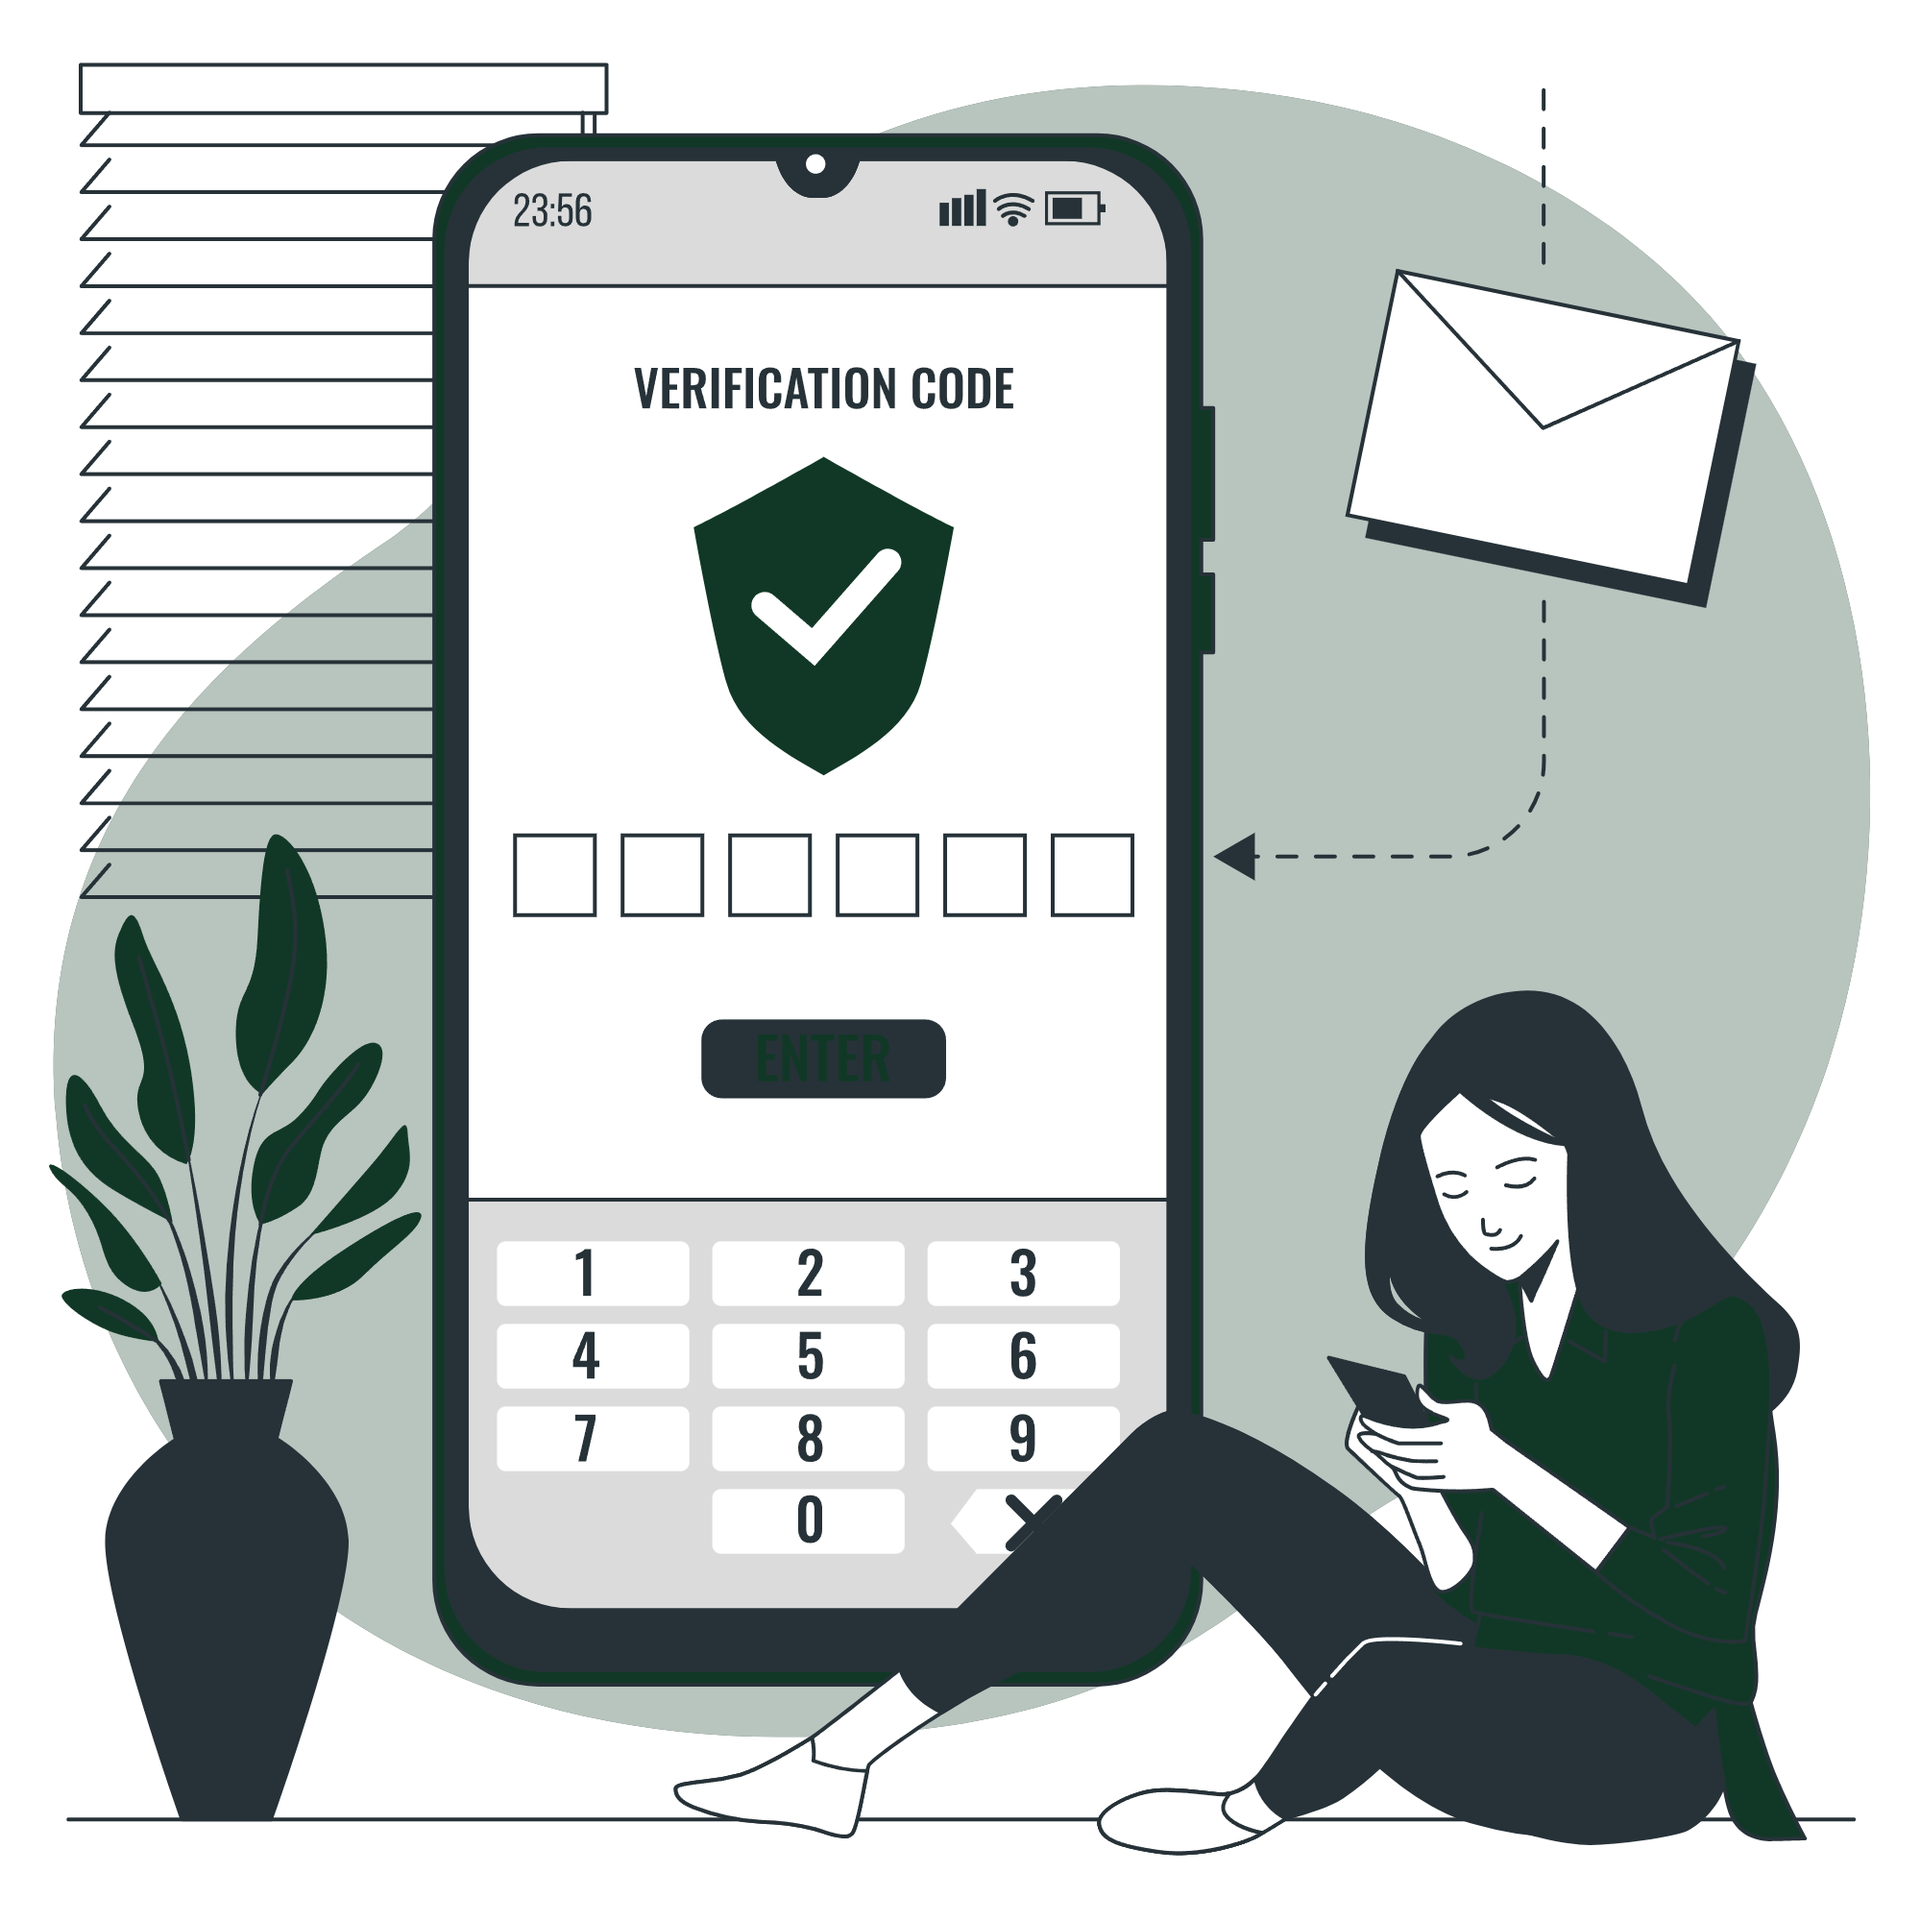
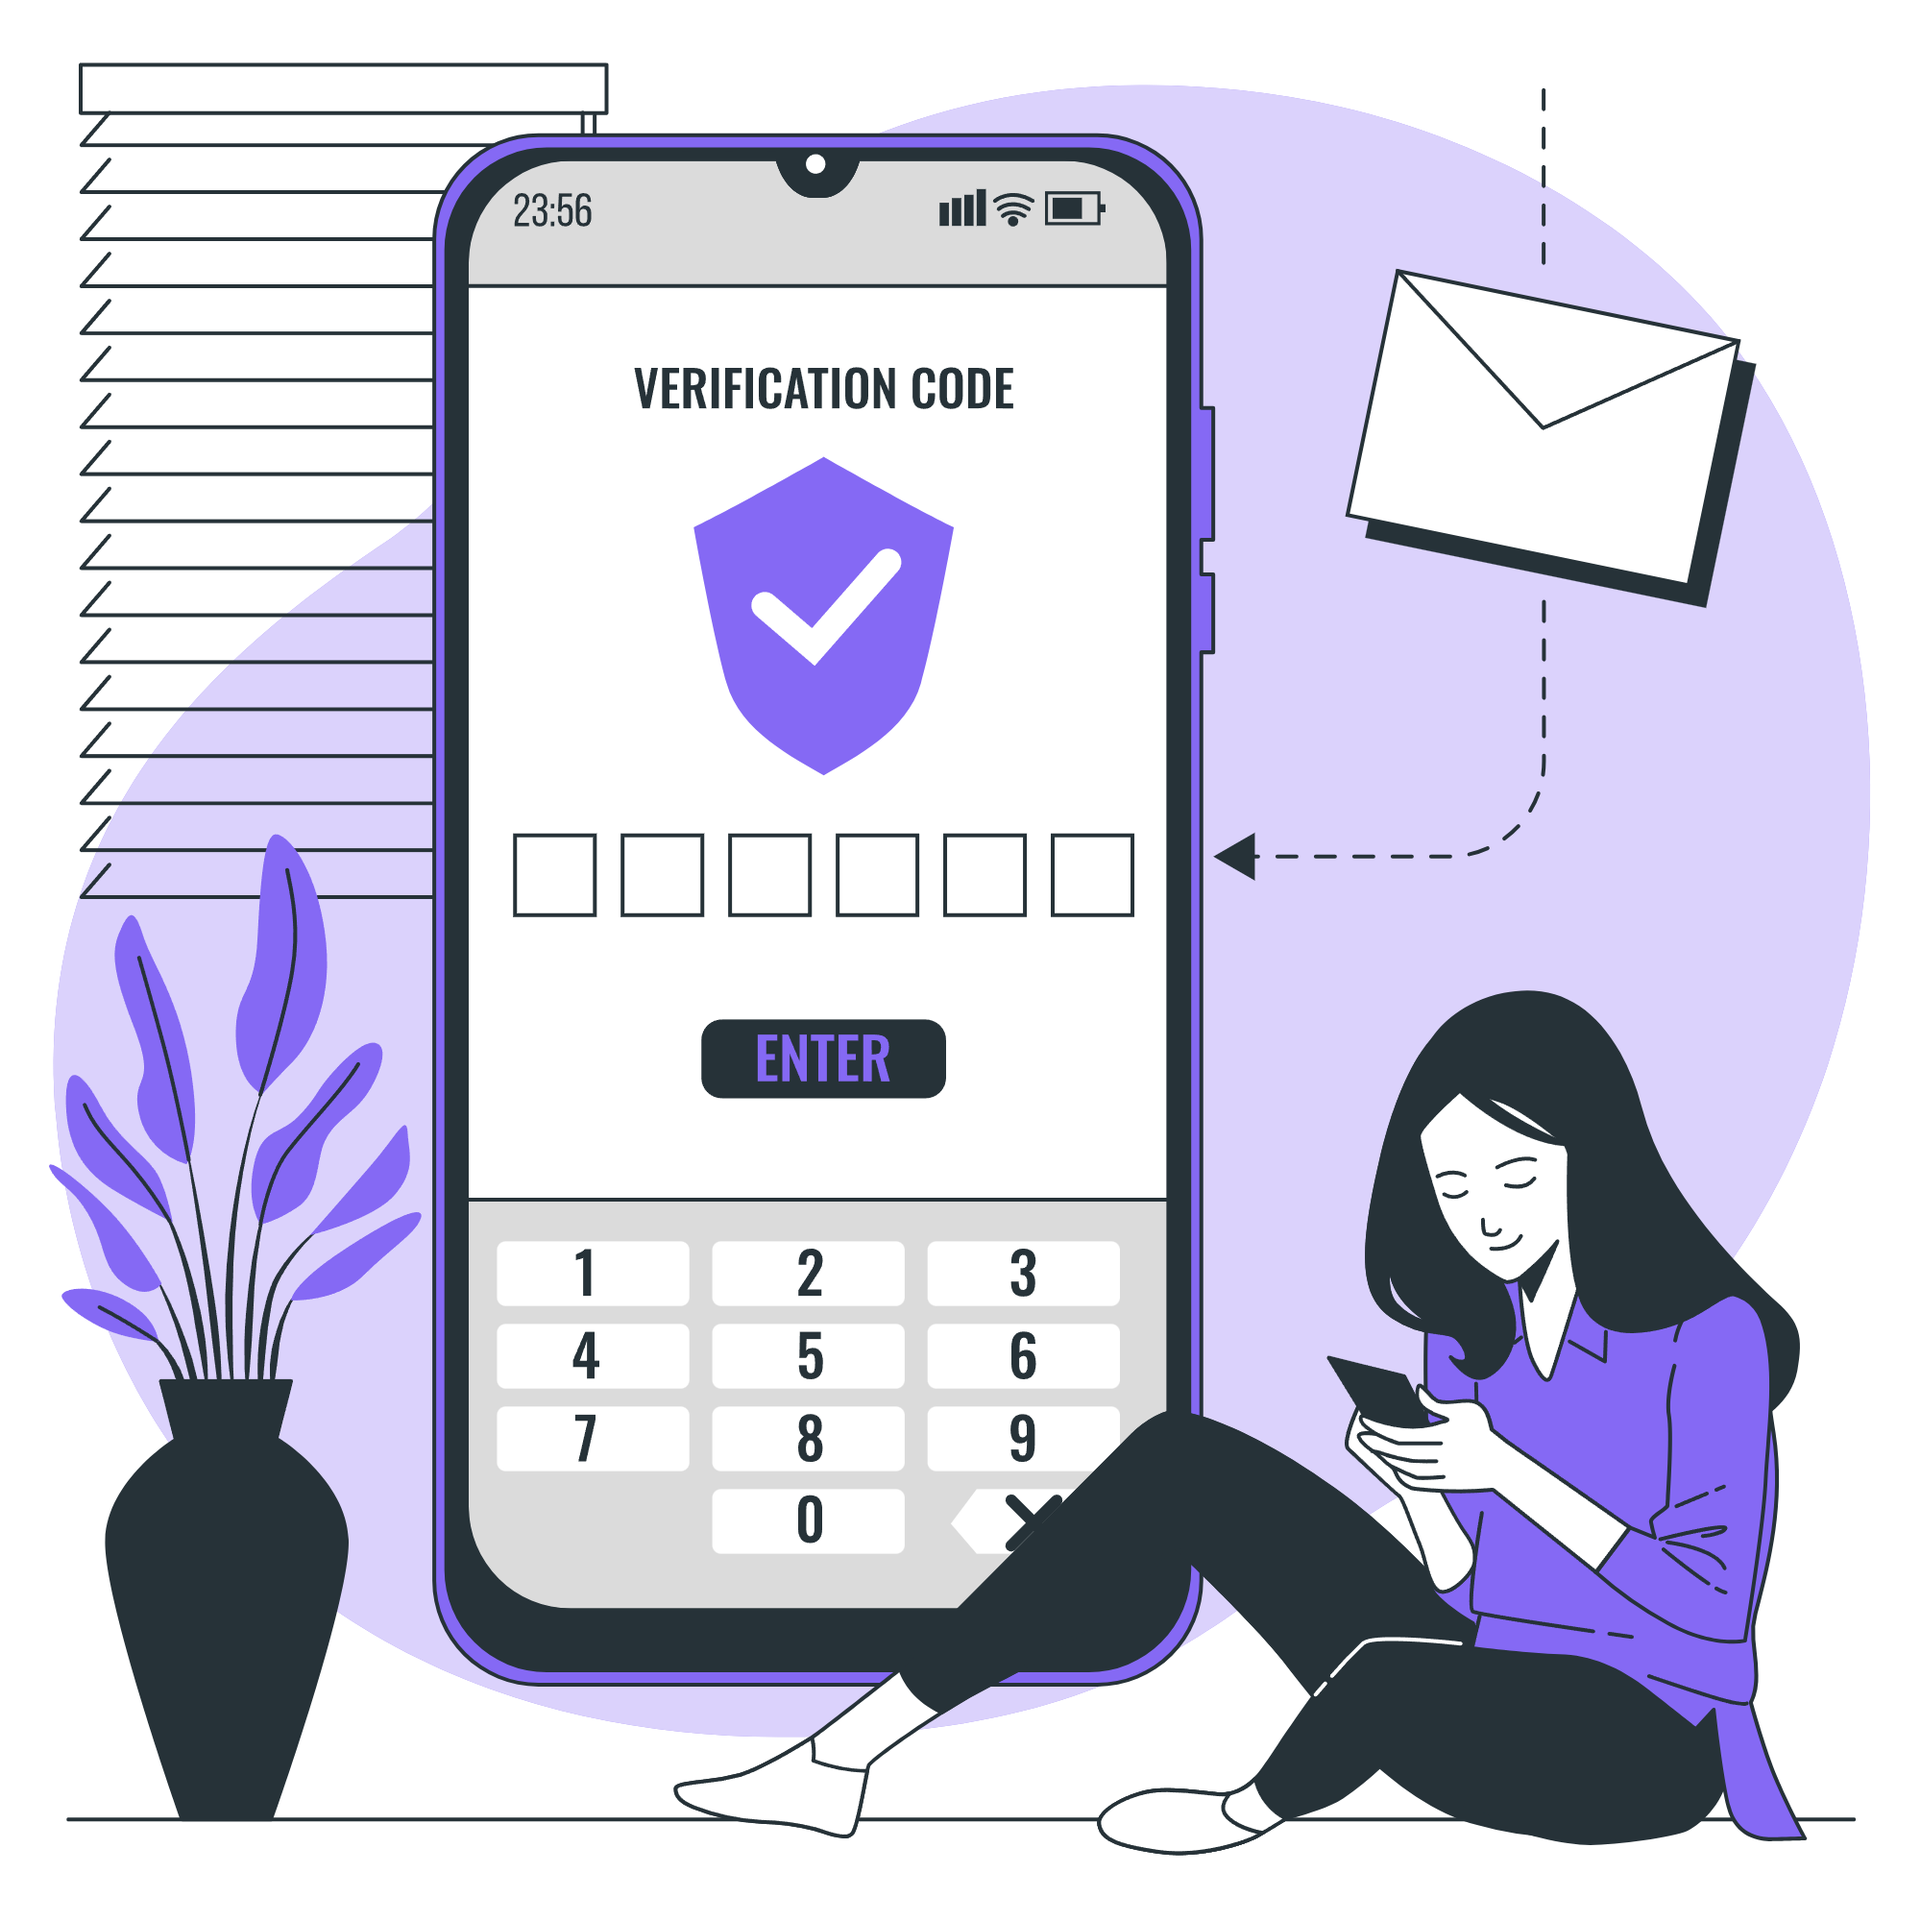
done adding teacher list

diff --git a/NVM-MS/src/screens/principal/TeachersList.js b/NVM-MS/src/screens/principal/TeachersList.js
@@ -1,12 +1,229 @@
-import { View, Text } from 'react-native'
-import React from 'react'
+import { View, Text, SafeAreaView, StyleSheet, FlatList } from 'react-native'
+import React, { useState } from 'react'
+import CustomSearchBar from '../../customComponents/CustomSearchBar'
+import { COLORS, customStyle } from '../../custom/styles';
+import { createMaterialTopTabNavigator } from "@react-navigation/material-top-tabs";
+import CustomTextAndInput from '../../customComponents/CustomTextAndInput';
+const Tab = createMaterialTopTabNavigator();
 
-const TeachersList = () => {
+const TeachersList = ({ navigation }) => {
+  const [searchActive, setSearchActive] = useState(false);
+  const [searchText, setSearchText] = useState(false);
+  const [teachersList, setTeachersList] = useState([
+    {
+      "id": 1,
+      "fullName": "Rajiv Mali",
+      "class": "12",
+      "division": "C",
+      "faculty": "Arts",
+      "phoneNumber": "9876543210"
+    },
+    {
+      "id": 2,
+      "fullName": "Amit Sharma",
+      "class": "12",
+      "division": "A",
+      "faculty": "Science",
+      "phoneNumber": "9123456789"
+    },
+    {
+      "id": 3,
+      "fullName": "Neha Patel",
+      "class": "12",
+      "division": "B",
+      "faculty": "Commerce",
+      "phoneNumber": "9988776655"
+    },
+    {
+      "id": 4,
+      "fullName": "Ravi Kumar",
+      "class": "12",
+      "division": "C",
+      "faculty": "Arts",
+      "phoneNumber": "9456123456"
+    },
+    {
+      "id": 5,
+      "fullName": "Simran Verma",
+      "class": "12",
+      "division": "A",
+      "faculty": "Commerce",
+      "phoneNumber": "9234567890"
+    },
+    {
+      "id": 6,
+      "fullName": "Pooja Yadav",
+      "class": "12",
+      "division": "B",
+      "faculty": "Science",
+      "phoneNumber": "9345678901"
+    },
+    {
+      "id": 7,
+      "fullName": "Manish Mehta",
+      "class": "12",
+      "division": "C",
+      "faculty": "Arts",
+      "phoneNumber": "9456781234"
+    },
+    {
+      "id": 8,
+      "fullName": "Priya Singh",
+      "class": "12",
+      "division": "A",
+      "faculty": "Arts",
+      "phoneNumber": "8765432109"
+    },
+    {
+      "id": 9,
+      "fullName": "Shivam Gupta",
+      "class": "12",
+      "division": "B",
+      "faculty": "Commerce",
+      "phoneNumber": "9876123456"
+    },
+    {
+      "id": 10,
+      "fullName": "Anjali Reddy",
+      "class": "12",
+      "division": "C",
+      "faculty": "Science",
+      "phoneNumber": "9123987456"
+    },
+    {
+      "id": 11,
+      "fullName": "Karan Joshi",
+      "class": "12",
+      "division": "A",
+      "faculty": "Arts",
+      "phoneNumber": "9786123456"
+    },
+    {
+      "id": 12,
+      "fullName": "Sneha Sharma",
+      "class": "12",
+      "division": "B",
+      "faculty": "Science",
+      "phoneNumber": "9823476501"
+    },
+    {
+      "id": 13,
+      "fullName": "Vishal Chauhan",
+      "class": "12",
+      "division": "C",
+      "faculty": "Commerce",
+      "phoneNumber": "9456789234"
+    },
+    {
+      "id": 14,
+      "fullName": "Sahil Kapoor",
+      "class": "12",
+      "division": "A",
+      "faculty": "Science",
+      "phoneNumber": "9998765432"
+    },
+    {
+      "id": 15,
+      "fullName": "Maya Desai",
+      "class": "12",
+      "division": "B",
+      "faculty": "Commerce",
+      "phoneNumber": "9212345678"
+    }
+  ]
+  )
+
+  const handlesubmit = () => {
+
+  };
+  const handleApplyFilter = () => {
+
+  };
+
+  const renderItems = ({ item }) => {
+    return (
+      <View>
+        <CustomTextAndInput type="text"> {item.fullName}</CustomTextAndInput>
+
+      </View>
+    );
+  }
+
+
   return (
-    <View>
-      <Text>TeachersList</Text>
-    </View>
+    <SafeAreaView style={customStyle.container}>
+      <CustomSearchBar
+        searchActive={searchActive}
+        handlesubmit={handlesubmit}
+        handleApplyFilter={handleApplyFilter}
+        setSearchText={setSearchText}
+        searchText={searchText}
+        setSearchActive={setSearchActive}
+        navigation={navigation}
+        labelText="Teachers"
+        placeholderText="search teachers"
+      />
+
+      <Tab.Navigator
+        screenOptions={({ route }) => ({
+          tabBarInactiveTintColor: "#aaa",
+          tabBarIndicatorStyle: { backgroundColor: "transparent" },
+          tabBarLabelStyle: { fontSize: 10, fontWeight: "bold" },
+          tabBarStyle: { backgroundColor: "#fafbfd" },
+          tabBarLabel: ({ focused, color }) => (
+            <View
+              style={{
+                backgroundColor: focused ? COLORS.primary : "#ffffff",
+                padding: 10,
+                borderRadius: 10,
+                paddingHorizontal: 20,
+                flex: 1
+              }}>
+              <CustomTextAndInput type="text" style={[styles.label, { color: focused ? "#ffffff" : "#292929" }]}>{route.name}</CustomTextAndInput>
+            </View>
+          ),
+        })}
+        sceneContainerStyle={{
+          backgroundColor: "red",
+          paddingTop: 100,
+        }}>
+        <Tab.Screen name="Science">
+          {() => (
+            <View>
+              <CustomTextAndInput type="text"> Science</CustomTextAndInput>
+              <FlatList
+              data={teachersList}
+              renderItem={renderItems}
+              />
+            </View>
+
+          )}
+        </Tab.Screen>
+        <Tab.Screen name="Commerce">
+          {() => (
+            <View>
+              <CustomTextAndInput type="text"> Commerce</CustomTextAndInput>
+              <FlatList
+              data={teachersList}
+              renderItem={renderItems}
+              />
+            </View>)}
+        </Tab.Screen>
+        <Tab.Screen name="Arts">
+          {() => (
+            <View>
+              <CustomTextAndInput type="text"> arts</CustomTextAndInput>
+              <FlatList
+              data={teachersList}
+              renderItem={renderItems}
+              />
+            </View>)}
+        </Tab.Screen>
+      </Tab.Navigator>
+    </SafeAreaView>
   )
 }
+const styles = StyleSheet.create({
 
-export default TeachersList
+});
+export default TeachersList;

diff --git a/NVM-MS/src/customComponents/CustomSearchBar.js b/NVM-MS/src/customComponents/CustomSearchBar.js
@@ -1,0 +1,81 @@
+import React from 'react'
+import { StyleSheet, TouchableOpacity, View } from 'react-native';
+import { Entypo, EvilIcons, SimpleLineIcons } from '@expo/vector-icons';
+import CustomTextAndInput from "./CustomTextAndInput"
+
+const CustomSearchBar = ({
+  searchActive,
+  handlesubmit,
+  handleApplyFilter,
+  setSearchText,
+  searchText,
+  setSearchActive,
+  navigation,
+  labelText,
+  placeholderText
+}) => {
+  return (
+    <View style={styles.topBar}>
+      <TouchableOpacity onPress={() => navigation.goBack()}>
+        <Entypo name="chevron-thin-left" size={24} color="#ffffff" />
+      </TouchableOpacity>
+      {searchActive ? (
+        <CustomTextAndInput
+        type="input"
+          style={styles.searchInput}
+          placeholder={placeholderText || "Search..."}
+          value={searchText}
+          onChangeText={setSearchText}
+          selectionColor="#292929"
+          autoFocus
+          onSubmitEditing={(e) => handlesubmit(e)}
+        />
+      ) : (
+        <CustomTextAndInput type="text" style={styles.title}>{labelText}</CustomTextAndInput>
+      )}
+      {searchActive ? (<TouchableOpacity onPress={() => {
+        setSearchActive(!searchActive);
+        setSearchText("");
+        handleApplyFilter('');
+
+      }}>
+        <View >
+          <CustomTextAndInput type="text" style={styles.filter}><EvilIcons name="close" size={24} color="#ffffff" /></CustomTextAndInput>
+        </View>
+      </TouchableOpacity>) :
+        (<TouchableOpacity onPress={() => {
+          setSearchActive(!searchActive);
+        }
+        }>
+          <View >
+            <CustomTextAndInput type="text" style={styles.filter}><SimpleLineIcons name="magnifier" size={24} color="#ffffff" /></CustomTextAndInput>
+          </View>
+        </TouchableOpacity>)}
+    </View>
+  )
+}
+const styles = StyleSheet.create({
+  topBar: {
+    flexDirection: "row",
+    alignItems: "center",
+    justifyContent: "space-between",
+    paddingHorizontal: 15,
+    height: 45,
+    backgroundColor: "#8569F4",
+  },
+  title: {
+    color: "#ffffff",
+    fontSize: 18,
+    fontFamily: "Montserrat-Regular", // Apply the font to inputs
+  },
+  searchInput: {
+    flex: 1,
+    backgroundColor: "#fff",
+    paddingHorizontal: 10,
+    marginHorizontal: 8,
+    borderRadius: 4,
+  },
+
+});
+
+export default CustomSearchBar

diff --git a/NVM-MS/src/screens/common/Login.js b/NVM-MS/src/screens/common/Login.js
@@ -27,7 +27,7 @@ const Login = ( {navigation}) => {
                         <CustomTextAndInput type="input" style={styles.inputField} placeholder='Enter Password' />
                     </View>
 
-                    <TouchableOpacity style={styles.signUpButton}>
+                    <TouchableOpacity style={styles.signUpButton} onPress={ () => {navigation.navigate('Teachers')}}>
                         <CustomTextAndInput type="text" style={styles.signUpText}>Sign in</CustomTextAndInput>
                     </TouchableOpacity>
 

diff --git a/NVM-MS/src/navigator/AppNavigator.js b/NVM-MS/src/navigator/AppNavigator.js
@@ -13,7 +13,7 @@ const AppNavigator = () => {
       <Stack.Screen name="Login" component={Login} options={{headerShown:false}} />
       <Stack.Screen name="Home" component={HomeScreen} />
       <Stack.Screen name="Registration" component={Registration} options={{headerShown:false}} />
-      <Stack.Screen name="Teachers" component={TeachersList} />
+      <Stack.Screen name="Teachers" component={TeachersList}  options={{headerShown:false}}  />
 
     </Stack.Navigator>
   )

diff --git a/NVM-MS/src/customComponents/CustomTextAndInput.js b/NVM-MS/src/customComponents/CustomTextAndInput.js
@@ -12,7 +12,6 @@ const CustomTextAndInput = ({ type, children, fontStyle = 'regular', placeholder
   if (!fontsLoaded) {
     return (
       <View style={[styles.loadingContainer, style]}>
-        <ActivityIndicator size="large" />
       </View>
     );
   }

diff --git a/NVM-MS/src/custom/styles.js b/NVM-MS/src/custom/styles.js
@@ -2,7 +2,7 @@ import { Platform, StatusBar, StyleSheet } from 'react-native';
 
 
 const COLORS = {
-  primary: '#003102',
+  primary: '#8569F4',
   secondary: '#2ecc71',
   background: '#ffffff',
   text: '#333333',
